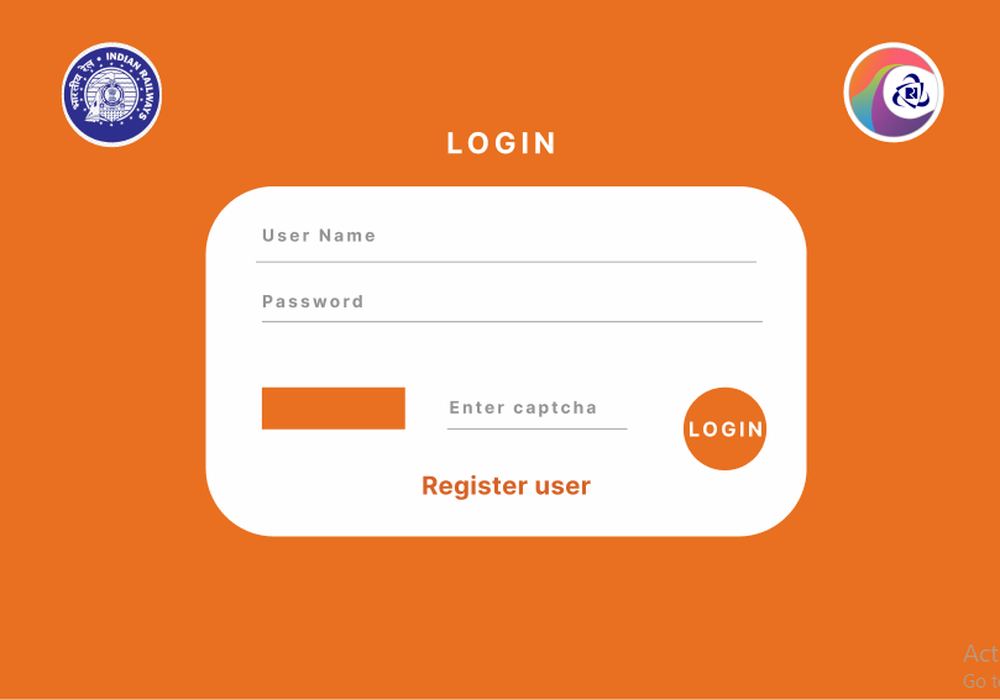
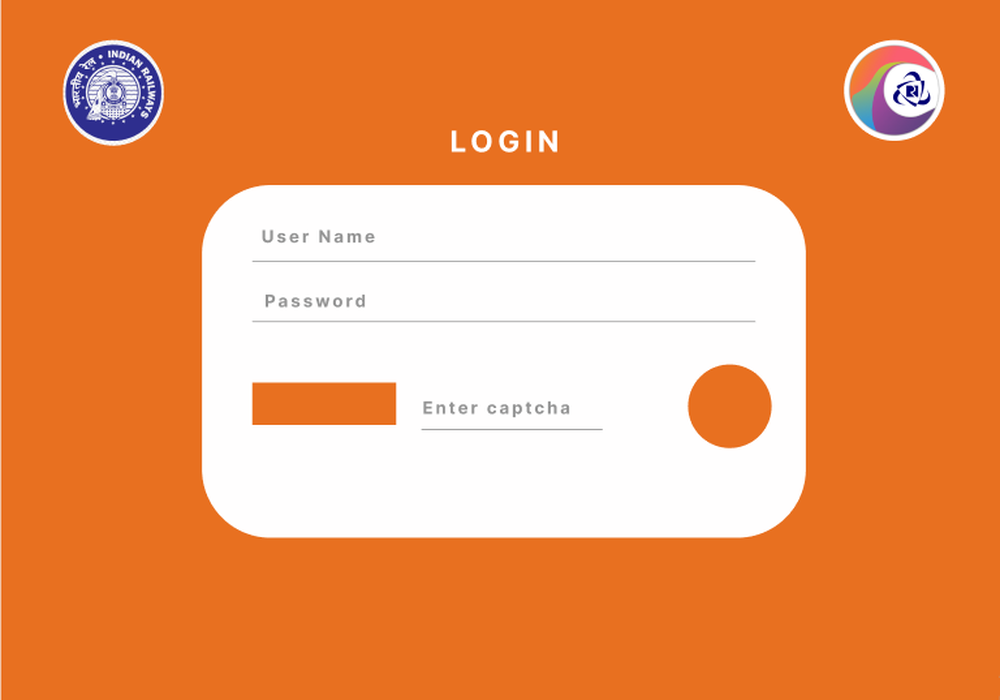
login page frontend

diff --git a/src/Login.java b/src/Login.java
@@ -9,7 +9,7 @@ public class Login extends JFrame implements ActionListener {
     JTextField userName, password,captchaText;
     JButton login,register,back;
     JLabel captchaValue;            //label for displaying selected captcha
-    String captcha[]={"12345","lksdj","sldkj","ksljfh"};        //storing captcha values
+    String captcha[]={"12345","lksdj","sldkj","kslfh","78dhr","*&ghg"};        //storing captcha values
     String selectedCaptcha;     //to store selected captcha
 
     Login() {
@@ -26,55 +26,65 @@ public class Login extends JFrame implements ActionListener {
 
         //username text feild
         userName = new JTextField("User Name");
-        userName.setBounds(260, 219, 500, 40);
-        userName.setFont(new Font("Raleway", Font.BOLD, 15));
+        userName.setBounds(257, 220, 500, 40);
+        userName.setFont(new Font("Raleway", Font.BOLD, 20));
         userName.setForeground(Color.gray);
         userName.setBorder(null);
         image.add(userName);
 
         //password text feild
         password = new JTextField("Password");
-        password.setBounds(260, 278, 500, 40);
-        password.setFont(new Font("Raleway", Font.BOLD, 15));
+        password.setBounds(257, 280, 500, 40);
+        password.setFont(new Font("Raleway", Font.BOLD, 20));
         password.setForeground(Color.gray);
         password.setBorder(null);
         image.add(password);
 
         //login button
-        login = new JButton("Login");
-        login.setBounds(687, 417, 76, 30);
+        login = new JButton("LOGIN");
+        login.setBounds(689, 393, 80, 30);
         login.setForeground(Color.white);
         login.setBackground(Color.ORANGE);
-        login.setFont(new Font("Raleway", Font.BOLD, 16));
+        login.setFont(new Font("Raleway", Font.BOLD, 24));
         login.setBorder(null);
+        login.setOpaque(false);
         login.addActionListener(this);
         image.add(login);
 
         //generate random captcha and display
         selectedCaptcha=getRandom(captcha);
         captchaValue=new JLabel(selectedCaptcha);
-        captchaValue.setBounds(387,450,50,50);
+        captchaValue.setBounds(295,380,100,50);
+        captchaValue.setForeground(Color.white);
+        captchaValue.setFont(new Font("Raleway", Font.BOLD, 23));
         image.add(captchaValue);
 
         //enter captcha
-        captchaText=new JTextField();
-        captchaText.setBounds(460, 440, 200, 40);
-        captchaText.setFont(new Font("Raleway", Font.BOLD, 15));
+        captchaText=new JTextField("Captcha");
+        captchaText.setBounds(420, 385, 180, 40);
+        captchaText.setFont(new Font("Raleway", Font.BOLD, 20));
         captchaText.setForeground(Color.gray);
+        captchaText.setBorder(null);
         captchaText.addActionListener(this);
         image.add(captchaText);
 
         register=new JButton("Register User");
-        register.setBounds(387, 617, 90, 30);
-        register.setForeground(Color.white);
-        register.setBackground(Color.ORANGE);
-        register.setFont(new Font("Raleway", Font.BOLD, 16));
+        register.setBounds(415, 470, 170, 30);
+        register.setForeground(Color.decode("#E87020"));
+        register.setFont(new Font("Raleway", Font.BOLD, 25));
+        register.setBackground(Color.white);
         register.setBorder(null);
+        // register.setOpaque(false);
         register.addActionListener(this);
         image.add(register);
-
-        back=new JButton("back");
-        back.setBounds(600,600,100,40);
+        
+        back=new JButton("BACK");
+        back.setBounds(697,470,70,30);
+        back.setFont(new Font("Raleway", Font.BOLD, 20));
+        back.setForeground(Color.decode("#E87020"));
+        back.setBackground(Color.black);
+        back.setBorder(null);
+        back.setOpaque(false);
         back.addActionListener(this);
         image.add(back);
 

diff --git a/src/SearchTrains.java b/src/SearchTrains.java
@@ -129,5 +129,4 @@ public class SearchTrains extends JFrame implements ActionListener{
     public static void main(String args[]) {
         new SearchTrains("suchith");
     }
-
 }
